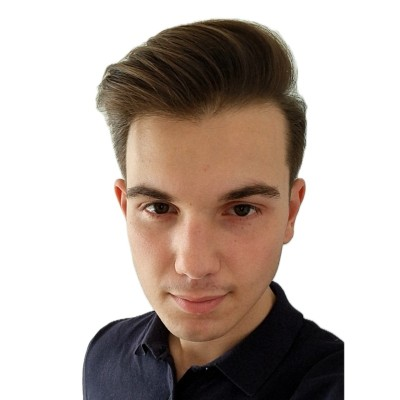
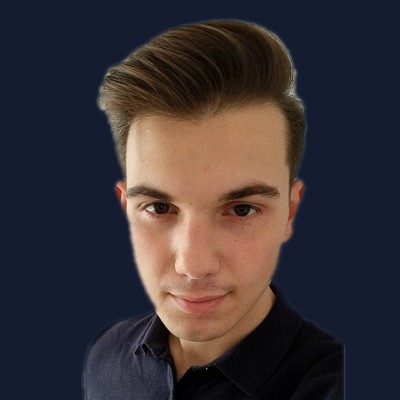
Give team photos a consistent dark tone
Replace Cristian's white studio background with the tile colour and lay
a shared violet-to-ink tone over every photo so they read as one set.

Claude-Session: https://claude.ai/code/session_013SxMJAMJDskiotVfyTbpGS

diff --git a/components/Fiki.tsx b/components/Fiki.tsx
@@ -44,7 +44,11 @@ function Team() {
             <div className="chamfer relative aspect-[4/3] bg-slate">
               {m.photo ? (
                 // eslint-disable-next-line @next/next/no-img-element
-                <img src={m.photo} alt={m.name} className="h-full w-full object-cover object-[center_30%]" />
+                <>
+                  <img src={m.photo} alt={m.name} className="h-full w-full object-cover object-[center_30%] saturate-[0.8]" />
+                  {/* Shared tone so photos shot in different light read as one set */}
+                  <span className="absolute inset-0 bg-[linear-gradient(180deg,rgba(139,124,255,0.14),rgba(12,18,34,0.4))]" aria-hidden />
+                </>
               ) : (
                 <span className="absolute bottom-2 left-3 font-display text-4xl sm:bottom-3 sm:left-4 sm:text-6xl font-bold text-violet/80">{m.initials}</span>
               )}
